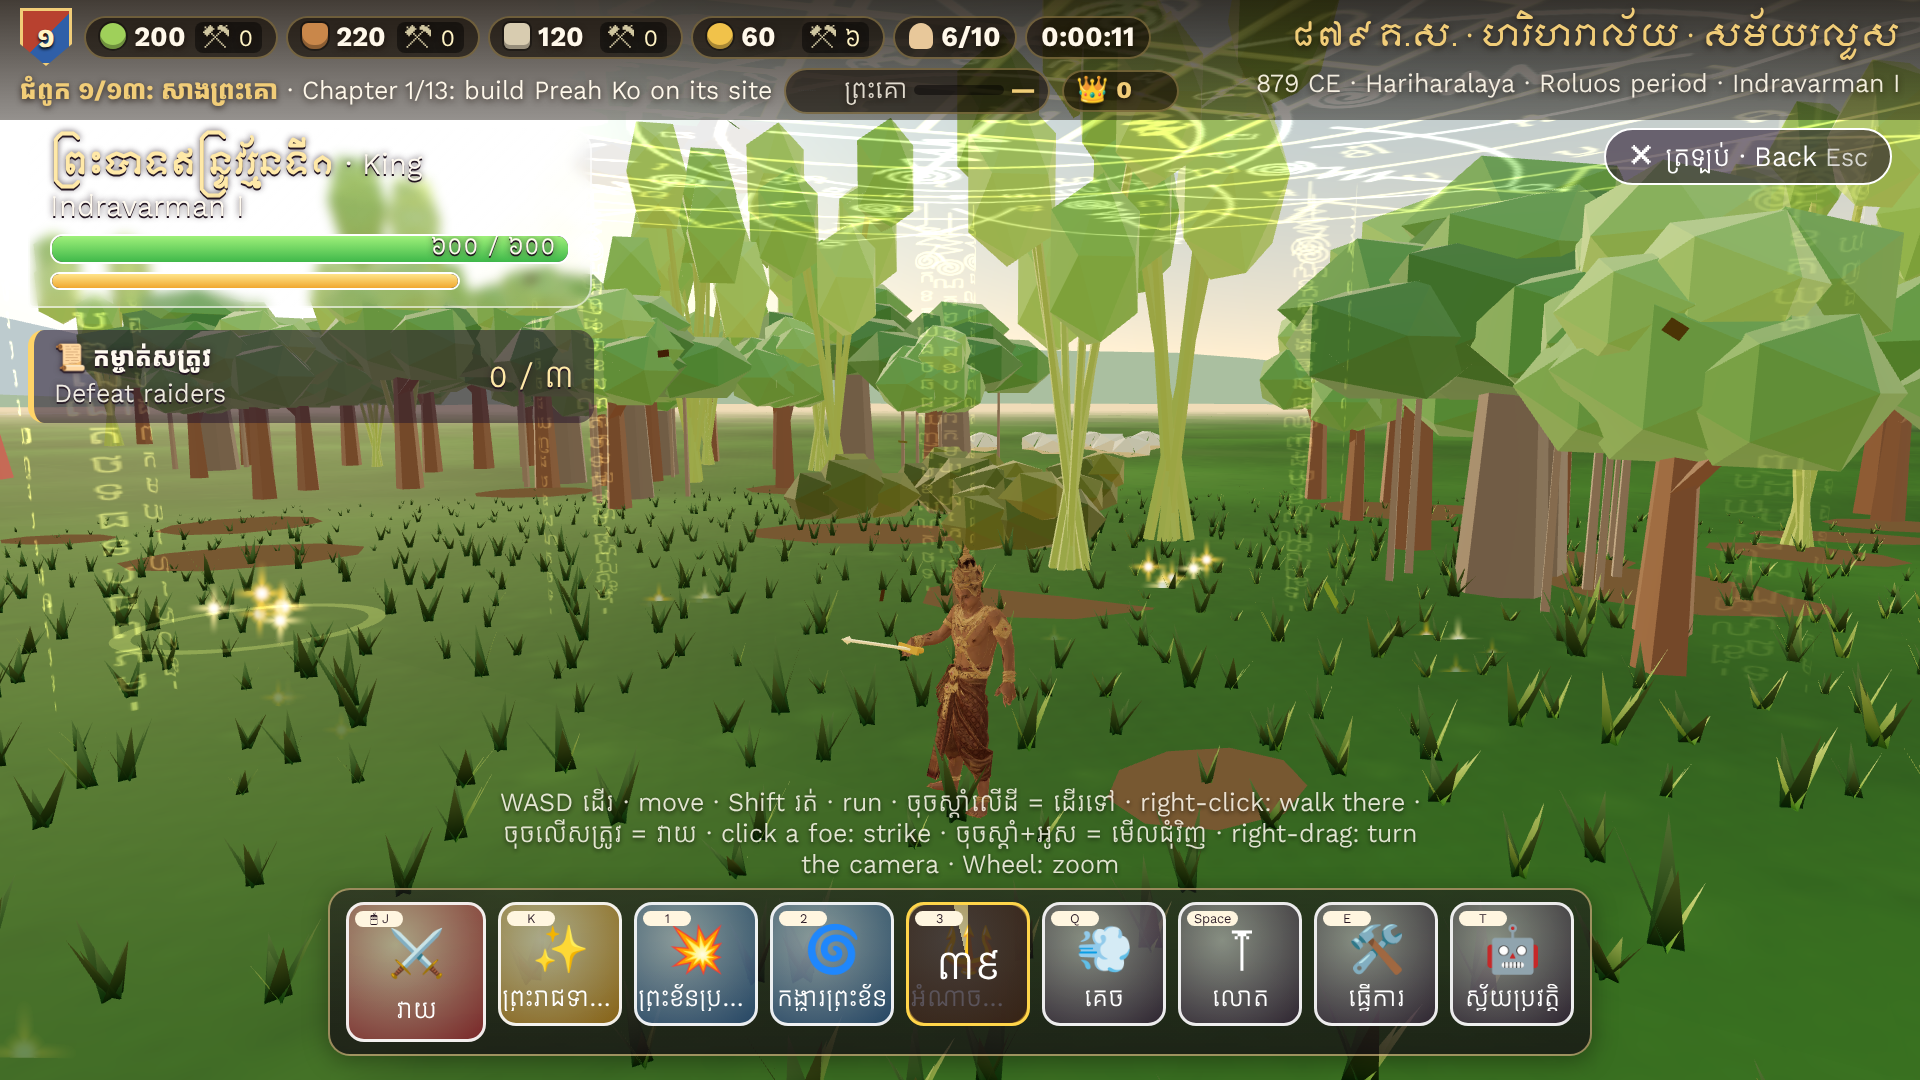
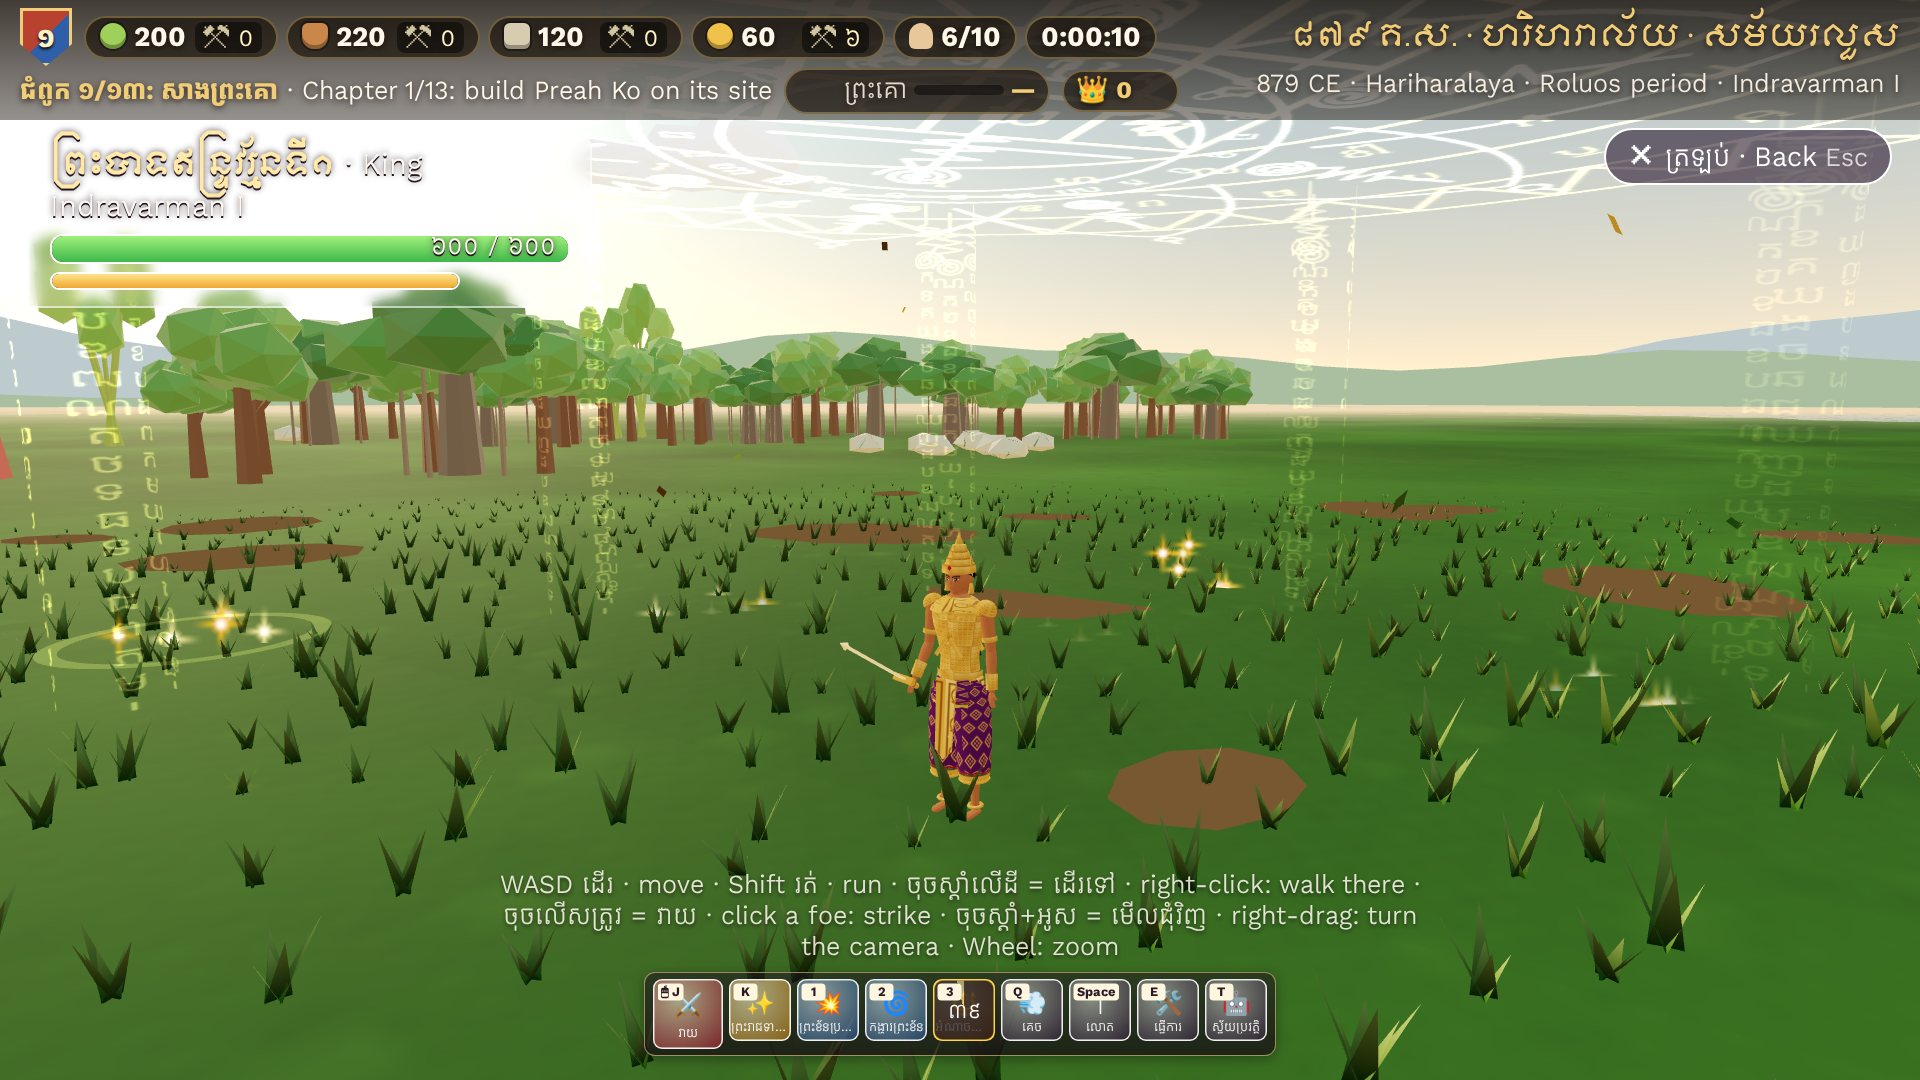
e2e: KG-14 closes the Royal Order question before testing the skill keys; checks logged
Claude-Session: https://claude.ai/code/session_017dmXPdLMp9auDpbSrbmvn9

diff --git a/e2e/kingdom.spec.ts b/e2e/kingdom.spec.ts
@@ -1202,9 +1202,12 @@ test('KG-14: PK 1.9.0 (D146 ខ៥, D150): the king’s four skills, the great o
   expect(bar.width).toBeLessThan(stage.width * 0.4);
   expect(bar.height).toBeLessThan(stage.height * 0.1);
   await page.evaluate(() => {
-    const c = window.__temples.anachak!.hero!.core!;
+    const h = window.__temples.anachak!.hero!;
+    const c = h.core!;
     c.camYaw = c.heading + 0.6;
     c.camDist = 7;
+    // D157: while a Royal Order question is open, 1–4 answer it; the skills are tested here.
+    (h as unknown as { order: unknown }).order = null;
   });
   await page.keyboard.press('Digit3');
   await page.waitForFunction(() => window.__temples.anachak!.hero!.core!.skillSlot === 3, null, {

diff --git a/docs/CHECKS.md b/docs/CHECKS.md
@@ -776,4 +776,4 @@ PK delegated ខ១–ខ៨ ("by your decisions, what is best for me", D146); h
 | Raid: raiders go for the storehouse; the line forms (shields, spears, bows); pairs; theft, loot dropped back; cheer; blocks ≈ 35 %; push back; a Royal Order calls a raid; the hurt rest | ✅ | `sim/battle.test.ts` |
 | Battle sounds (drum, block, axe, cheer) mapped from events | ✅ | `view/sound.test.ts` |
 | `npm run verify` (99 test files / 836 tests, build) | ✅ | |
-| e2e KG-01 (inbox, vote), KG-03 (chapter card from the inbox), KG-14 (half-size hero bar) | ⏳ running | software renderer |
+| e2e KG-01 (inbox, vote), KG-03 (chapter card from the inbox), KG-14 (half-size hero bar; the open Royal Order question closed first, since 1–4 answer it) | ✅ | software renderer, 7.2 min + 1.7 min; `docs/screens/k-inbox.png`, `k-hero-ultimate.png` |
